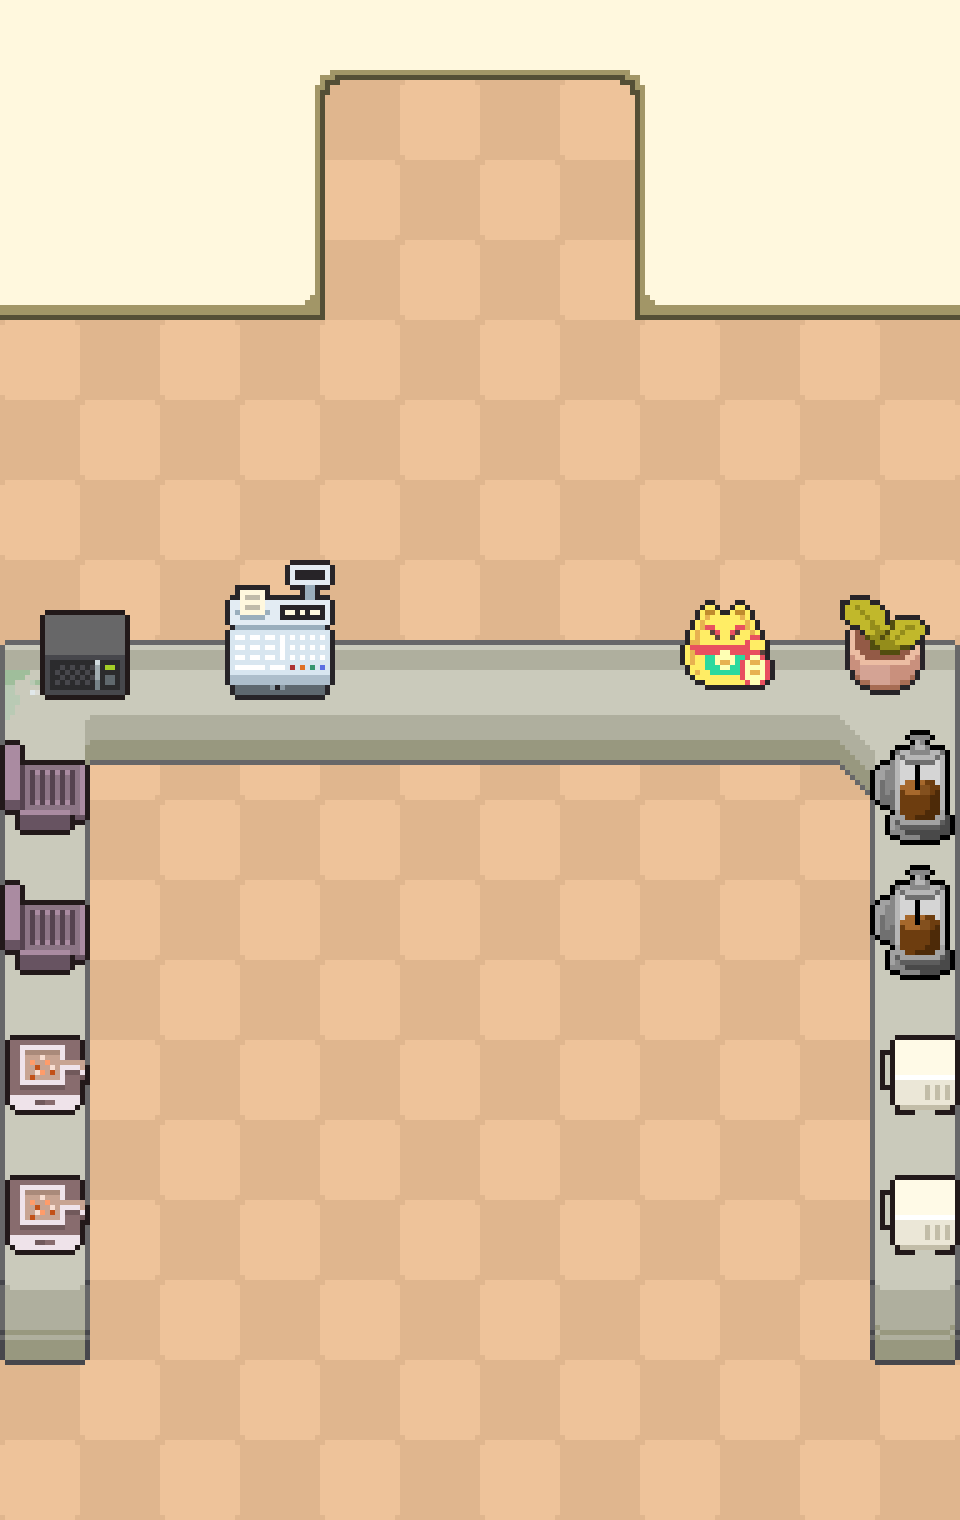
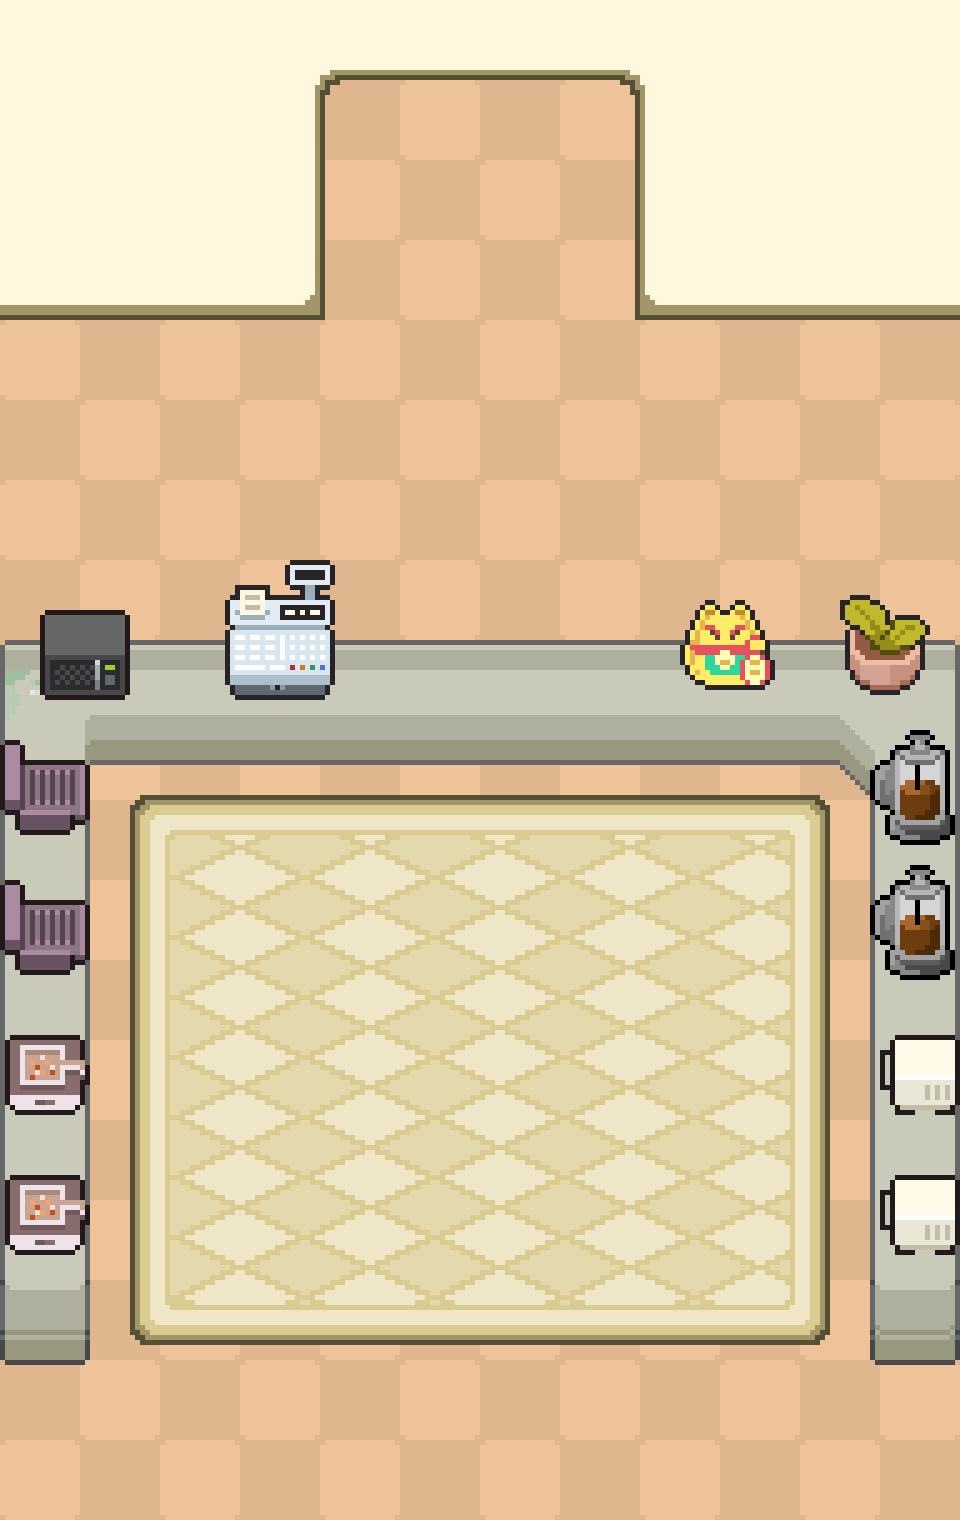
update: change floor images

Changed region(s): [[0.125, 0.5257, 0.875, 0.8967]]

diff --git a/src/game/ui/GameUI.ts b/src/game/ui/GameUI.ts
@@ -89,6 +89,27 @@ export class GameUI {
       )
     );
 
+    this.uiGroup.add(
+      this.scene.add
+        .text(GAME_WIDTH / 2, 402, "Tap here", {
+          fontFamily: "Pixelify Sans",
+          fontSize: 36,
+          color: "#ffffff",
+          stroke: "#5D5D5D",
+          strokeThickness: 3,
+          align: "center",
+          shadow: {
+            offsetX: 0,
+            offsetY: 2,
+            color: "#000000",
+            fill: true,
+          },
+        })
+        .setDepth(LAYERS.OBJECT)
+        .setOrigin(0.5, 0.5)
+        .setAlpha(0.5)
+    );
+
     const renderedBtnQuest = drawSpriteButton(
       this.scene,
       `${LOCATION_ASSETS.BTN_QUEST}-${currentLocation}`,
